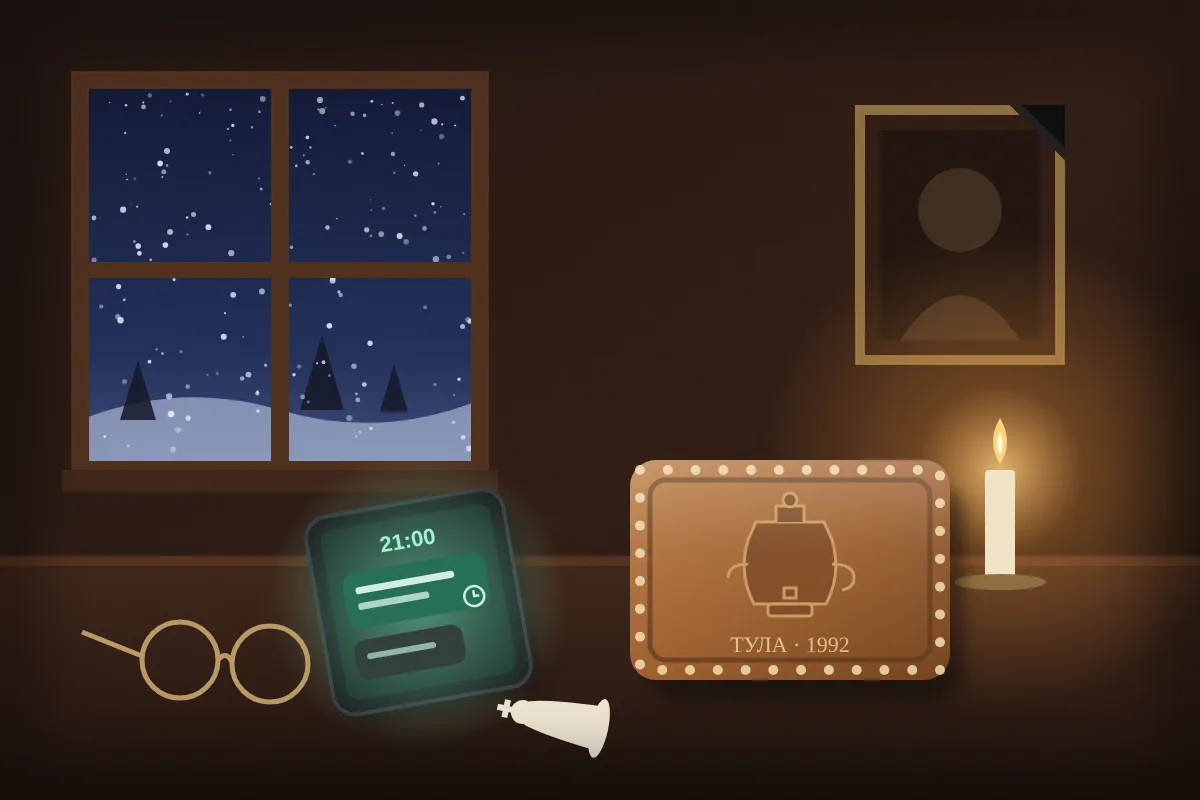
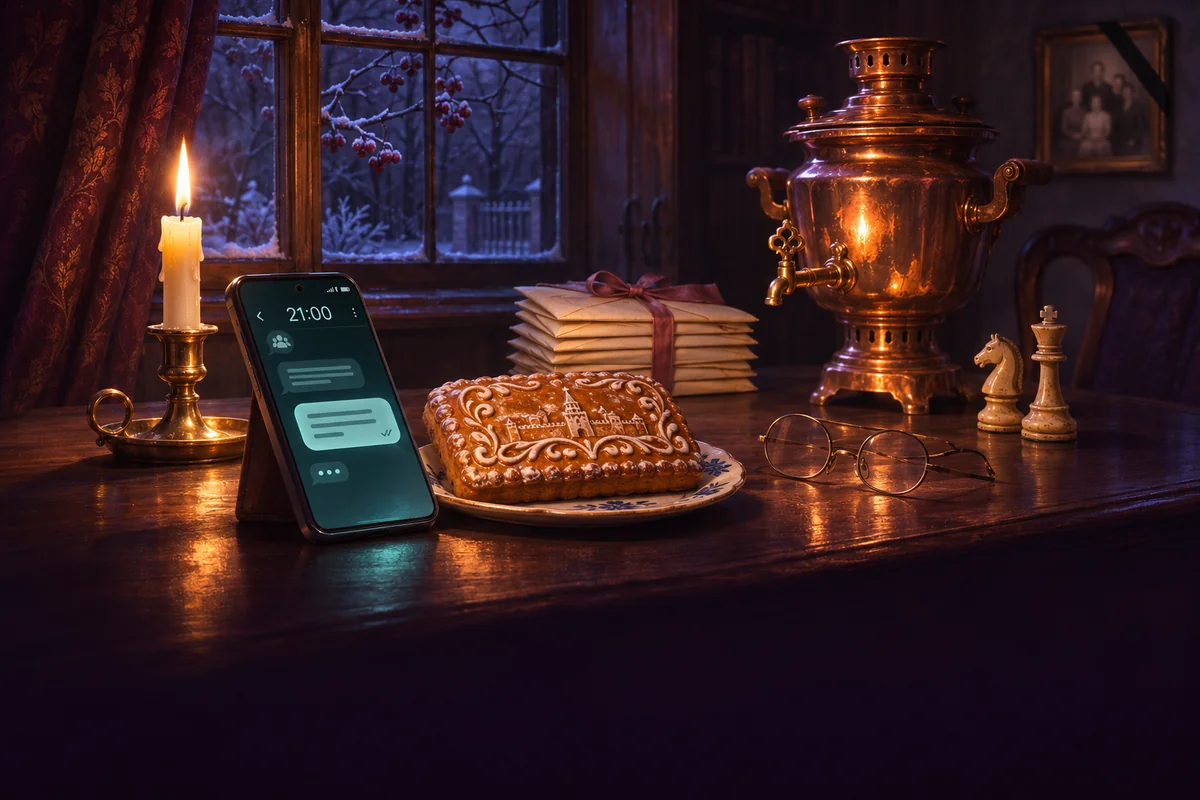
Add cinematic artwork for «Отложенные сообщения»
Replace the placeholder cover with a story-specific illustration of the grandfather's study, scheduled message at 21:00, letters and Tula gingerbread. Export responsive WebP sizes and document integration.

Verified home and story pages at 320, 390 and 430 px: covers decode, titles remain legible, no horizontal overflow or browser errors. No application or story logic changes.

diff --git a/docs/otlozhennye-cover.md b/docs/otlozhennye-cover.md
@@ -1,0 +1,31 @@
+# «Отложенные сообщения»: иллюстрация
+
+Обложка показывает ночной кабинет в доме Ковалёвых: телефон с сообщением в
+21:00, тульский пряник, письма, медный самовар и свечу. Тёплый свет предметов
+сочетается с холодным сине-фиолетовым окном. Нижняя часть изображения затемнена
+композицией для заголовка и кнопки. Иллюстрация не раскрывает виновника или
+механизм преступления.
+
+Существующий `cover_style: pryanik` уже связан в `CoverArt` со slug
+`otlozhennye`. Заменены только WebP-файлы, поэтому новая иллюстрация используется
+в каталоге, на странице истории, в списках профиля и в студии. Текст, сценарии,
+настройки, публикации и прогресс игроков этим изменением не редактируются.
+
+Варианты одного изображения:
+
+| Файл | Размер | Вес |
+| --- | --- | --- |
+| otlozhennye-1200.webp | 1200 × 800 | 105 504 байт |
+| otlozhennye-640.webp | 640 × 427 | 35 346 байт |
+| otlozhennye-320.webp | 320 × 213 | 9 992 байта |
+
+Исходная иллюстрация сгенерирована для этой истории; WebP-версии экспортированы
+с сохранением пропорций. Проверены декодирование файлов и отображение главной
+и детальной страницы на ширинах 320, 390 и 430 px с отступами полноэкранного
+Telegram. Код компонента и схема БД не меняются.
+
+Обновление на сервере:
+
+```sh
+nohup bash /opt/polnoch-stories/deploy/hostkey.sh update > /var/lib/polnoch-stories/otlozhennye-cover.log 2>&1 < /dev/null &
+```
